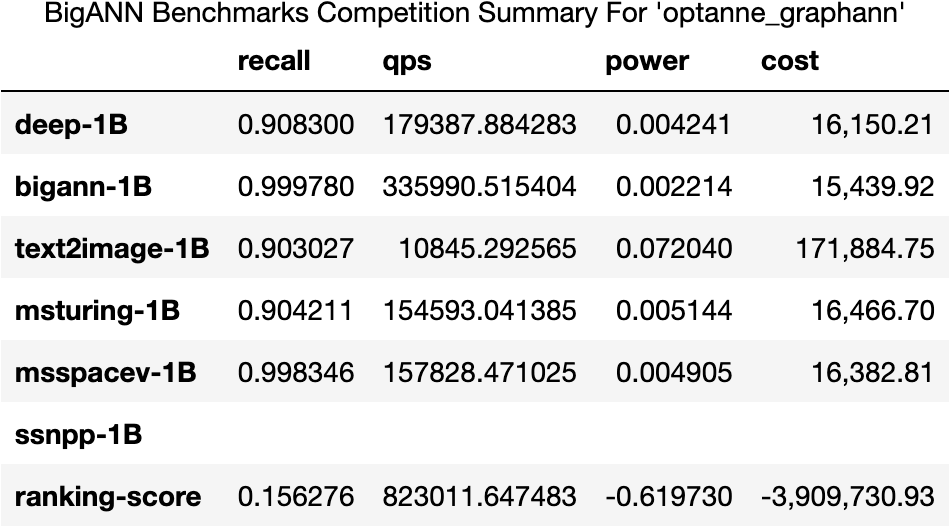
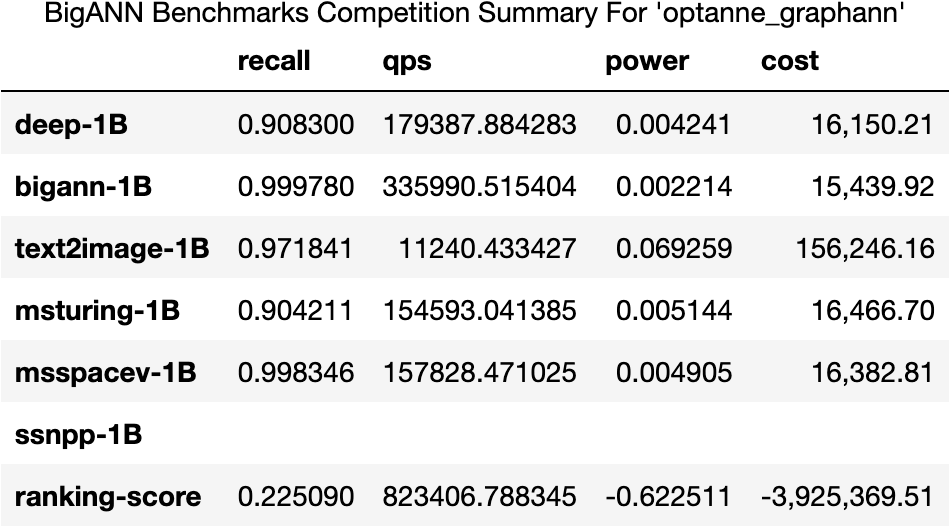
updated optanne eval with text2image min qps fix

diff --git a/t3/t3eval.py b/t3/t3eval.py
@@ -305,7 +305,7 @@ class Evaluator():
 
         # get qualifying run parameters
         # min_qps = self.competition["min_qps"]
-        min_qps = self.baseline["datasets"]["min-qps"] # The baseline informed min lives in baseline now
+        min_qps = self.baseline["datasets"][dataset]["min-qps"] # The baseline informed min lives in baseline now
         if self.verbose: print("for recall, min_qps=", min_qps)
         qualifiers = [ el for el in list(zip(qps, recall, parameters)) if el[0]>=min_qps ]
         if len(qualifiers)>0:
@@ -322,7 +322,7 @@ class Evaluator():
         # eval throughput benchmark
         #
         # min_recall = self.competition["min_recall"]
-        min_recall = self.baseline["datasets"]["min-recall"] # The baseline informed min lives in baseline now
+        min_recall = self.baseline["datasets"][dataset]["min-recall"] # The baseline informed min lives in baseline now
         if self.verbose: print("for throughput, min_recall=", min_recall)
         qualifiers = [ el for el in list(zip(recall, qps, parameters)) if el[0]>=min_recall ]
         if len(qualifiers)==0: 

diff --git a/t3/LEADERBOARDS.md b/t3/LEADERBOARDS.md
@@ -36,7 +36,7 @@ Please note that all rankings are currently unofficial due to the following reas
 
 |Rank|Submission        |Team   |Hardware|Status |Score      |[Deep1B](#deep1B-recall-rankings)|[BigANN](#bigann-recall-rankings)|[MSTuring](#msturing-recall-rankings)|[MSSpace](#msspace-recall-rankings)|[Text2Image](#text2image-recall-rankings)|[FBSSNet](#fbsimsearchnet-ap-rankings)|
 |----|------------------|-------|--------|-------|-----------|------|------|--------|-------|----------|-------|
-|   1|[optanne_graphann](https://github.com/harsha-simhadri/big-ann-benchmarks/blob/gw/T3/t3/optanne_graphann/README.md)|Intel|Intel Optane |inprog|**0.156**|[0.90830](https://github.com/harsha-simhadri/big-ann-benchmarks/blob/gw/T3/t3/eval_2021/optanne_graphann/deep-1B_recall.png) |[0.99978](https://github.com/harsha-simhadri/big-ann-benchmarks/blob/gw/T3/t3/eval_2021/optanne_graphann/bigann-1B_recall.png) |[0.90421](https://github.com/harsha-simhadri/big-ann-benchmarks/blob/gw/T3/t3/eval_2021/optanne_graphann/msturing-1B_recall.png)   |[0.99835](https://github.com/harsha-simhadri/big-ann-benchmarks/blob/gw/T3/t3/eval_2021/optanne_graphann/msspacev-1B_recall.png)  |[0.90303](https://github.com/harsha-simhadri/big-ann-benchmarks/blob/gw/T3/t3/eval_2021/optanne_graphann/text2image-1B_recall.png)     |-  |
+|   1|[optanne_graphann](https://github.com/harsha-simhadri/big-ann-benchmarks/blob/gw/T3/t3/optanne_graphann/README.md)|Intel|Intel Optane |inprog|**0.225**|[0.90830](https://github.com/harsha-simhadri/big-ann-benchmarks/blob/gw/T3/t3/eval_2021/optanne_graphann/deep-1B_recall.png) |[0.99978](https://github.com/harsha-simhadri/big-ann-benchmarks/blob/gw/T3/t3/eval_2021/optanne_graphann/bigann-1B_recall.png) |[0.90421](https://github.com/harsha-simhadri/big-ann-benchmarks/blob/gw/T3/t3/eval_2021/optanne_graphann/msturing-1B_recall.png)   |[0.99835](https://github.com/harsha-simhadri/big-ann-benchmarks/blob/gw/T3/t3/eval_2021/optanne_graphann/msspacev-1B_recall.png)  |[0.97184](https://github.com/harsha-simhadri/big-ann-benchmarks/blob/gw/T3/t3/eval_2021/optanne_graphann/text2image-1B_recall.png)     |-  |
 |   2|[-](-)|-|- |-|**-**|- |- |-   |-  |-     |-  |
 |   3|[-](-)|-|- |-|**-**|- |- |-   |-  |-     |-  |
 |   4|[-](-)|-|- |-|**-**|- |- |-   |-  |-     |-  |
@@ -54,7 +54,7 @@ Please note that all rankings are currently unofficial due to the following reas
 
 |Rank|Submission        |Team   |Hardware|Status |Score      |[Deep1B](#deep1B-throughput-rankings)|[BigANN](#bigann-throughput-rankings)|[MSTuring](#msturing-throughput-rankings)|[MSSpace](#msspace-throughput-rankings)|[Text2Image](#text2image-throughput-rankings)|[FBSSNet](#fbsimsearchnet-throughput-rankings)|
 |----|------------------|-------|--------|-------|-----------|------|------|--------|-------|----------|--------------|
-|   1|[optanne_graphann](https://github.com/harsha-simhadri/big-ann-benchmarks/blob/gw/T3/t3/optanne_graphann/README.md)|Intel|Intel Optane |inprog|**823011.647**|[179,387.884](https://github.com/harsha-simhadri/big-ann-benchmarks/blob/gw/T3/t3/eval_2021/optanne_graphann/deep-1B_throughput.png) |[335,990.515](https://github.com/harsha-simhadri/big-ann-benchmarks/blob/gw/T3/t3/eval_2021/optanne_graphann/bigann-1B_throughput.png) |[154,593.041](https://github.com/harsha-simhadri/big-ann-benchmarks/blob/gw/T3/t3/eval_2021/optanne_graphann/msturing-1B_throughput.png)   |[157,828.471](https://github.com/harsha-simhadri/big-ann-benchmarks/blob/gw/T3/t3/eval_2021/optanne_graphann/msspacev-1B_throughput.png)  |[10,845.293](https://github.com/harsha-simhadri/big-ann-benchmarks/blob/gw/T3/t3/eval_2021/optanne_graphann/text2image-1B_throughput.png)     |-         |
+|   1|[optanne_graphann](https://github.com/harsha-simhadri/big-ann-benchmarks/blob/gw/T3/t3/optanne_graphann/README.md)|Intel|Intel Optane |inprog|**823406.788**|[179,387.884](https://github.com/harsha-simhadri/big-ann-benchmarks/blob/gw/T3/t3/eval_2021/optanne_graphann/deep-1B_throughput.png) |[335,990.515](https://github.com/harsha-simhadri/big-ann-benchmarks/blob/gw/T3/t3/eval_2021/optanne_graphann/bigann-1B_throughput.png) |[154,593.041](https://github.com/harsha-simhadri/big-ann-benchmarks/blob/gw/T3/t3/eval_2021/optanne_graphann/msturing-1B_throughput.png)   |[157,828.471](https://github.com/harsha-simhadri/big-ann-benchmarks/blob/gw/T3/t3/eval_2021/optanne_graphann/msspacev-1B_throughput.png)  |[11,240.433](https://github.com/harsha-simhadri/big-ann-benchmarks/blob/gw/T3/t3/eval_2021/optanne_graphann/text2image-1B_throughput.png)     |-         |
 |   2|[-](-)|-|- |-|**-**|- |- |-   |-  |-     |-         | 
 |   3|[-](-)|-|- |-|**-**|- |- |-   |-  |-     |-         | 
 |   4|[-](-)|-|- |-|**-**|- |- |-   |-  |-     |-         | 
@@ -72,7 +72,7 @@ Please note that all rankings are currently unofficial due to the following reas
 
 |Rank|Submission        |Team   |Hardware|Status |Score      |[Deep1B](#deep1B-power-rankings)|[BigANN](#bigann-power-rankings)|[MSTuring](#msturing-power-rankings)|[MSSpace](#msspace-power-rankings)|[Text2Image](#text2image-power-rankings)|[FBSSNet](#fbsimsearchnet-power-rankings)|
 |----|------------------|-------|--------|-------|-----------|------|------|--------|-------|-----|-----|
-|   1|[optanne_graphann](https://github.com/harsha-simhadri/big-ann-benchmarks/blob/gw/T3/t3/optanne_graphann/README.md)|Intel|Intel Optane |inprog|**-0.620**|[0.0042](https://github.com/harsha-simhadri/big-ann-benchmarks/blob/gw/T3/t3/eval_2021/optanne_graphann/deep-1B_power.png) |[0.0022](https://github.com/harsha-simhadri/big-ann-benchmarks/blob/gw/T3/t3/eval_2021/optanne_graphann/bigann-1B_power.png) |[0.0051](https://github.com/harsha-simhadri/big-ann-benchmarks/blob/gw/T3/t3/eval_2021/optanne_graphann/msturing-1B_power.png)   |[0.0049](https://github.com/harsha-simhadri/big-ann-benchmarks/blob/gw/T3/t3/eval_2021/optanne_graphann/msspacev-1B_power.png)  |[0.0720](https://github.com/harsha-simhadri/big-ann-benchmarks/blob/gw/T3/t3/eval_2021/optanne_graphann/text2image-1B_power.png)|-|
+|   1|[optanne_graphann](https://github.com/harsha-simhadri/big-ann-benchmarks/blob/gw/T3/t3/optanne_graphann/README.md)|Intel|Intel Optane |inprog|**-0.623**|[0.0042](https://github.com/harsha-simhadri/big-ann-benchmarks/blob/gw/T3/t3/eval_2021/optanne_graphann/deep-1B_power.png) |[0.0022](https://github.com/harsha-simhadri/big-ann-benchmarks/blob/gw/T3/t3/eval_2021/optanne_graphann/bigann-1B_power.png) |[0.0051](https://github.com/harsha-simhadri/big-ann-benchmarks/blob/gw/T3/t3/eval_2021/optanne_graphann/msturing-1B_power.png)   |[0.0049](https://github.com/harsha-simhadri/big-ann-benchmarks/blob/gw/T3/t3/eval_2021/optanne_graphann/msspacev-1B_power.png)  |[0.0693](https://github.com/harsha-simhadri/big-ann-benchmarks/blob/gw/T3/t3/eval_2021/optanne_graphann/text2image-1B_power.png)|-|
 |   2|[-](-)|-|- |-|**-**|- |- |-   |-  |-|-| 
 |   3|[-](-)|-|- |-|**-**|- |- |-   |-  |-|-| 
 |   4|[-](-)|-|- |-|**-**|- |- |-   |-  |-|-| 
@@ -90,7 +90,7 @@ Please note that all rankings are currently unofficial due to the following reas
 
 |Rank|Submission        |Team   |Hardware|Status |Score      |[Deep1B](#deep1B-cost-rankings)|[BigANN](#bigann-cost-rankings)|[MSTuring](#msturing-cost-rankings)|[MSSpace](#msspace-cost-rankings)|[Text2Image](#text2image-cost-rankings)|[FBSSNet](#fbsimsearchnet-cost-rankings)|
 |----|------------------|-------|--------|-------|-----------|------|------|--------|-------|----------|--------------|
-|   1|[optanne_graphann](https://github.com/harsha-simhadri/big-ann-benchmarks/blob/gw/T3/t3/optanne_graphann/README.md)|Intel|Intel Optane |inprog|**$-3,909,730.93**|$16,150.21 |$15,439.92 |$16,466.70   |$16,382.81  |$171,884.75     |-         |
+|   1|[optanne_graphann](https://github.com/harsha-simhadri/big-ann-benchmarks/blob/gw/T3/t3/optanne_graphann/README.md)|Intel|Intel Optane |inprog|**$-3,925,369.51**|$16,150.21 |$15,439.92 |$16,466.70   |$16,382.81  |$156,246.16     |-         |
 |   2|[-](-)|-|- |-|**-**|- |- |-   |-  |-     |-         |
 |   3|[-](-)|-|- |-|**-**|- |- |-   |-  |-     |-         |
 |   4|[-](-)|-|- |-|**-**|- |- |-   |-  |-     |-         |
@@ -416,7 +416,7 @@ Please note that all rankings are currently unofficial due to the following reas
 
 |Rank|Submission                                             |Team                          |Hardware               |Status  |R@10         |
 |----|-------------------------------------------------------|------------------------------|-----------------------|--------|-------------|
-|   1|[optanne_graphann](https://github.com/harsha-simhadri/big-ann-benchmarks/blob/gw/T3/t3/optanne_graphann/README.md)                                   |Intel                      |Intel Optane               |inprog|**[0.90303](https://github.com/harsha-simhadri/big-ann-benchmarks/blob/gw/T3/t3/eval_2021/optanne_graphann/text2image-1B_recall.png)**  |
+|   1|[optanne_graphann](https://github.com/harsha-simhadri/big-ann-benchmarks/blob/gw/T3/t3/optanne_graphann/README.md)                                   |Intel                      |Intel Optane               |inprog|**[0.97184](https://github.com/harsha-simhadri/big-ann-benchmarks/blob/gw/T3/t3/eval_2021/optanne_graphann/text2image-1B_recall.png)**  |
 |   2|[-](-)                                   |-                      |-               |-|**-**  |
 |   3|[-](-)                                   |-                      |-               |-|**-**  |
 |   4|[-](-)                                   |-                      |-               |-|**-**  |
@@ -433,7 +433,7 @@ Please note that all rankings are currently unofficial due to the following reas
 
 |Rank|Submission                                             |Team                          |Hardware               |Status  |Q/S         |
 |----|-------------------------------------------------------|------------------------------|-----------------------|--------|------------|
-|   1|[optanne_graphann](https://github.com/harsha-simhadri/big-ann-benchmarks/blob/gw/T3/t3/optanne_graphann/README.md)                                   |Intel                      |Intel Optane               |inprog|**[10,845.293](https://github.com/harsha-simhadri/big-ann-benchmarks/blob/gw/T3/t3/eval_2021/optanne_graphann/text2image-1B_throughput.png)** |
+|   1|[optanne_graphann](https://github.com/harsha-simhadri/big-ann-benchmarks/blob/gw/T3/t3/optanne_graphann/README.md)                                   |Intel                      |Intel Optane               |inprog|**[11,240.433](https://github.com/harsha-simhadri/big-ann-benchmarks/blob/gw/T3/t3/eval_2021/optanne_graphann/text2image-1B_throughput.png)** |
 |   2|[-](-)                                   |-                      |-               |-|**-** |
 |   3|[-](-)                                   |-                      |-               |-|**-** |
 |   4|[-](-)                                   |-                      |-               |-|**-** |
@@ -450,7 +450,7 @@ Please note that all rankings are currently unofficial due to the following reas
 
 |Rank|Submission                                             |Team                          |Hardware               |Status  |W*S/Q      |
 |----|-------------------------------------------------------|------------------------------|-----------------------|--------|-----------|
-|   1|[optanne_graphann](https://github.com/harsha-simhadri/big-ann-benchmarks/blob/gw/T3/t3/optanne_graphann/README.md)                                   |Intel                      |Intel Optane               |inprog|**[0.0720](https://github.com/harsha-simhadri/big-ann-benchmarks/blob/gw/T3/t3/eval_2021/optanne_graphann/text2image-1B_power.png)**|
+|   1|[optanne_graphann](https://github.com/harsha-simhadri/big-ann-benchmarks/blob/gw/T3/t3/optanne_graphann/README.md)                                   |Intel                      |Intel Optane               |inprog|**[0.0693](https://github.com/harsha-simhadri/big-ann-benchmarks/blob/gw/T3/t3/eval_2021/optanne_graphann/text2image-1B_power.png)**|
 |   2|[-](-)                                   |-                      |-               |-|**-**|
 |   3|[-](-)                                   |-                      |-               |-|**-**|
 |   4|[-](-)                                   |-                      |-               |-|**-**|
@@ -467,7 +467,7 @@ Please note that all rankings are currently unofficial due to the following reas
 
 |Rank|Submission           |Team                          |Hardware             |Status  |Cost          |capex   |opex    |unit cost|units@100K qps|KwH*4yrs |
 |----|---------------------|------------------------------|---------------------|--------|--------------|--------|--------|---------|--------------|---------|
-|   1|[optanne_graphann](https://github.com/harsha-simhadri/big-ann-benchmarks/blob/gw/T3/t3/optanne_graphann/README.md) |Intel                      |Intel Optane             |inprog|**$171,884.75**   |$146,642.00|$25,242.75|$14,664.20 |10      |252,427.485|
+|   1|[optanne_graphann](https://github.com/harsha-simhadri/big-ann-benchmarks/blob/gw/T3/t3/optanne_graphann/README.md) |Intel                      |Intel Optane             |inprog|**$156,246.16**   |$131,977.80|$24,268.36|$14,664.20 |9      |242,683.630|
 |   2|[-](-) |-                      |-             |-|**-**   |-|-|- |-      |-| 
 |   3|[-](-) |-                      |-             |-|**-**   |-|-|- |-      |-| 
 |   4|[-](-) |-                      |-             |-|**-**   |-|-|- |-      |-| 
